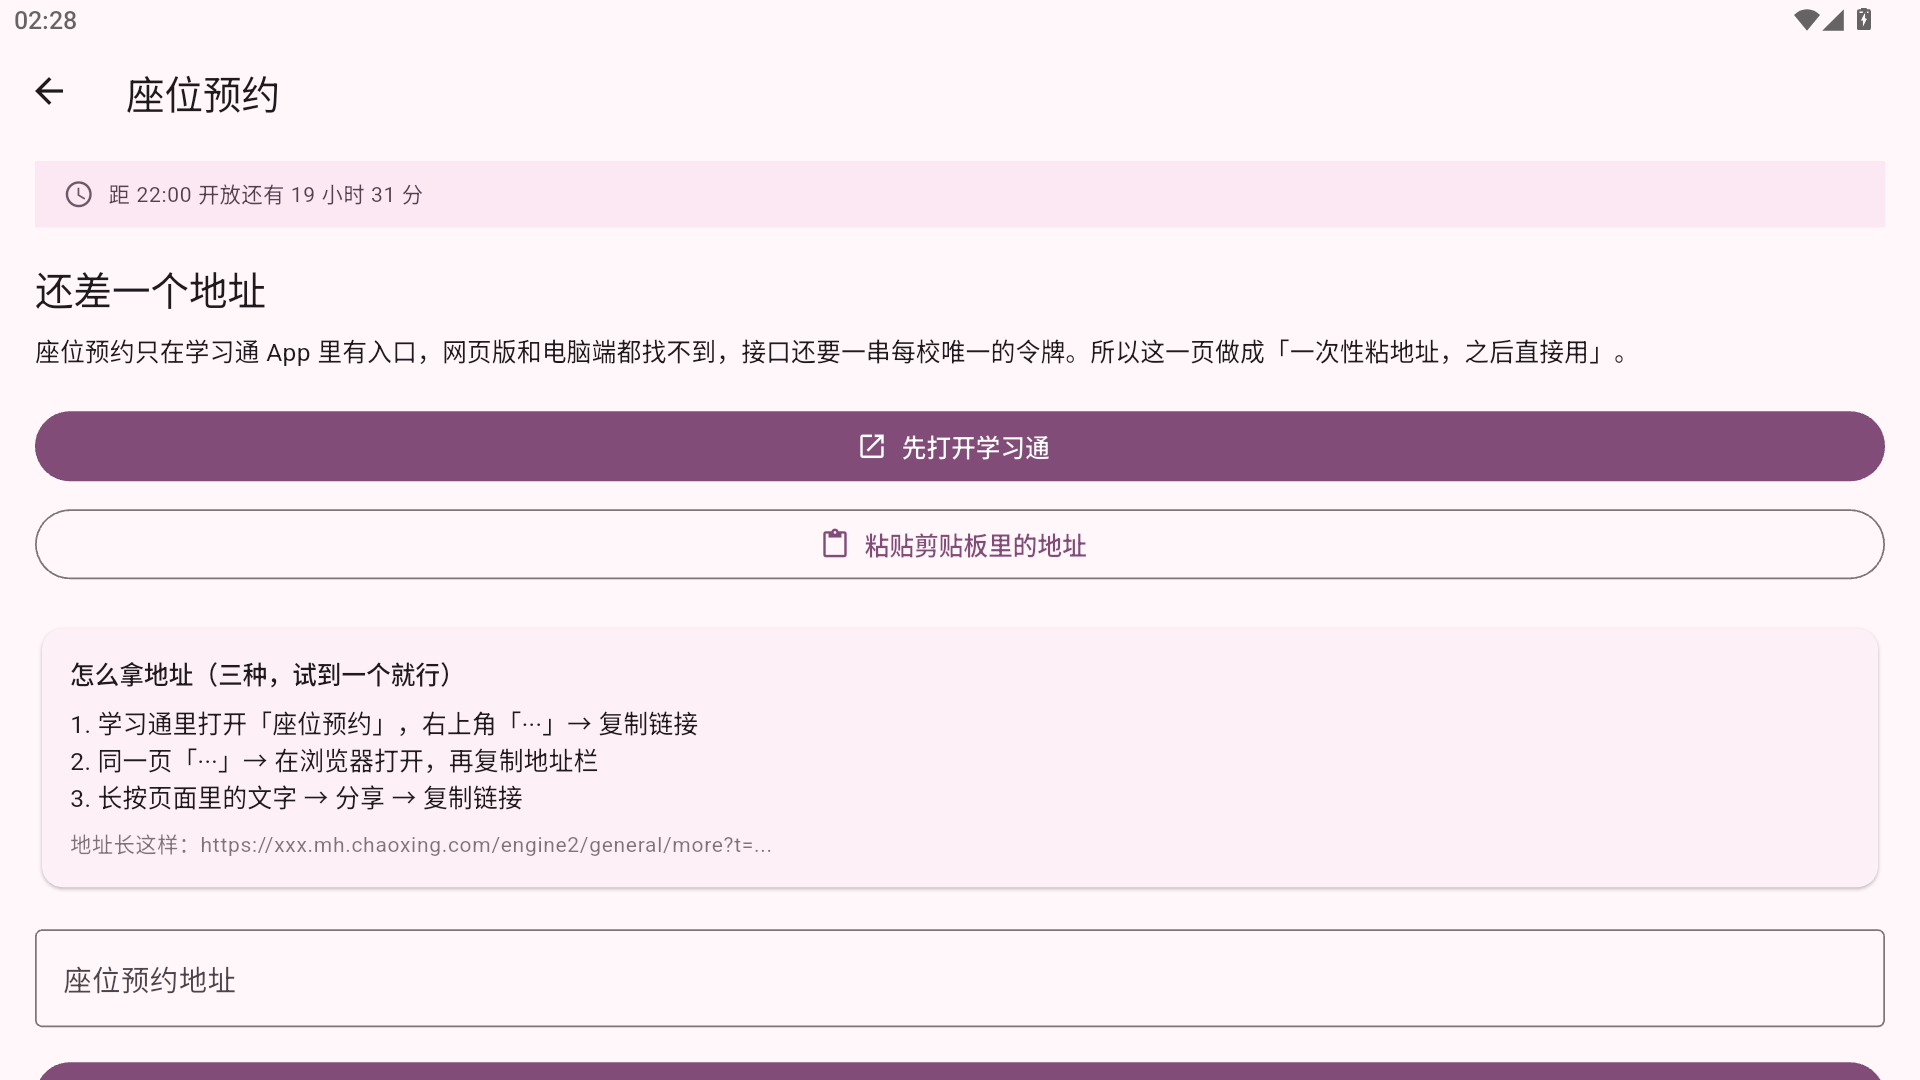
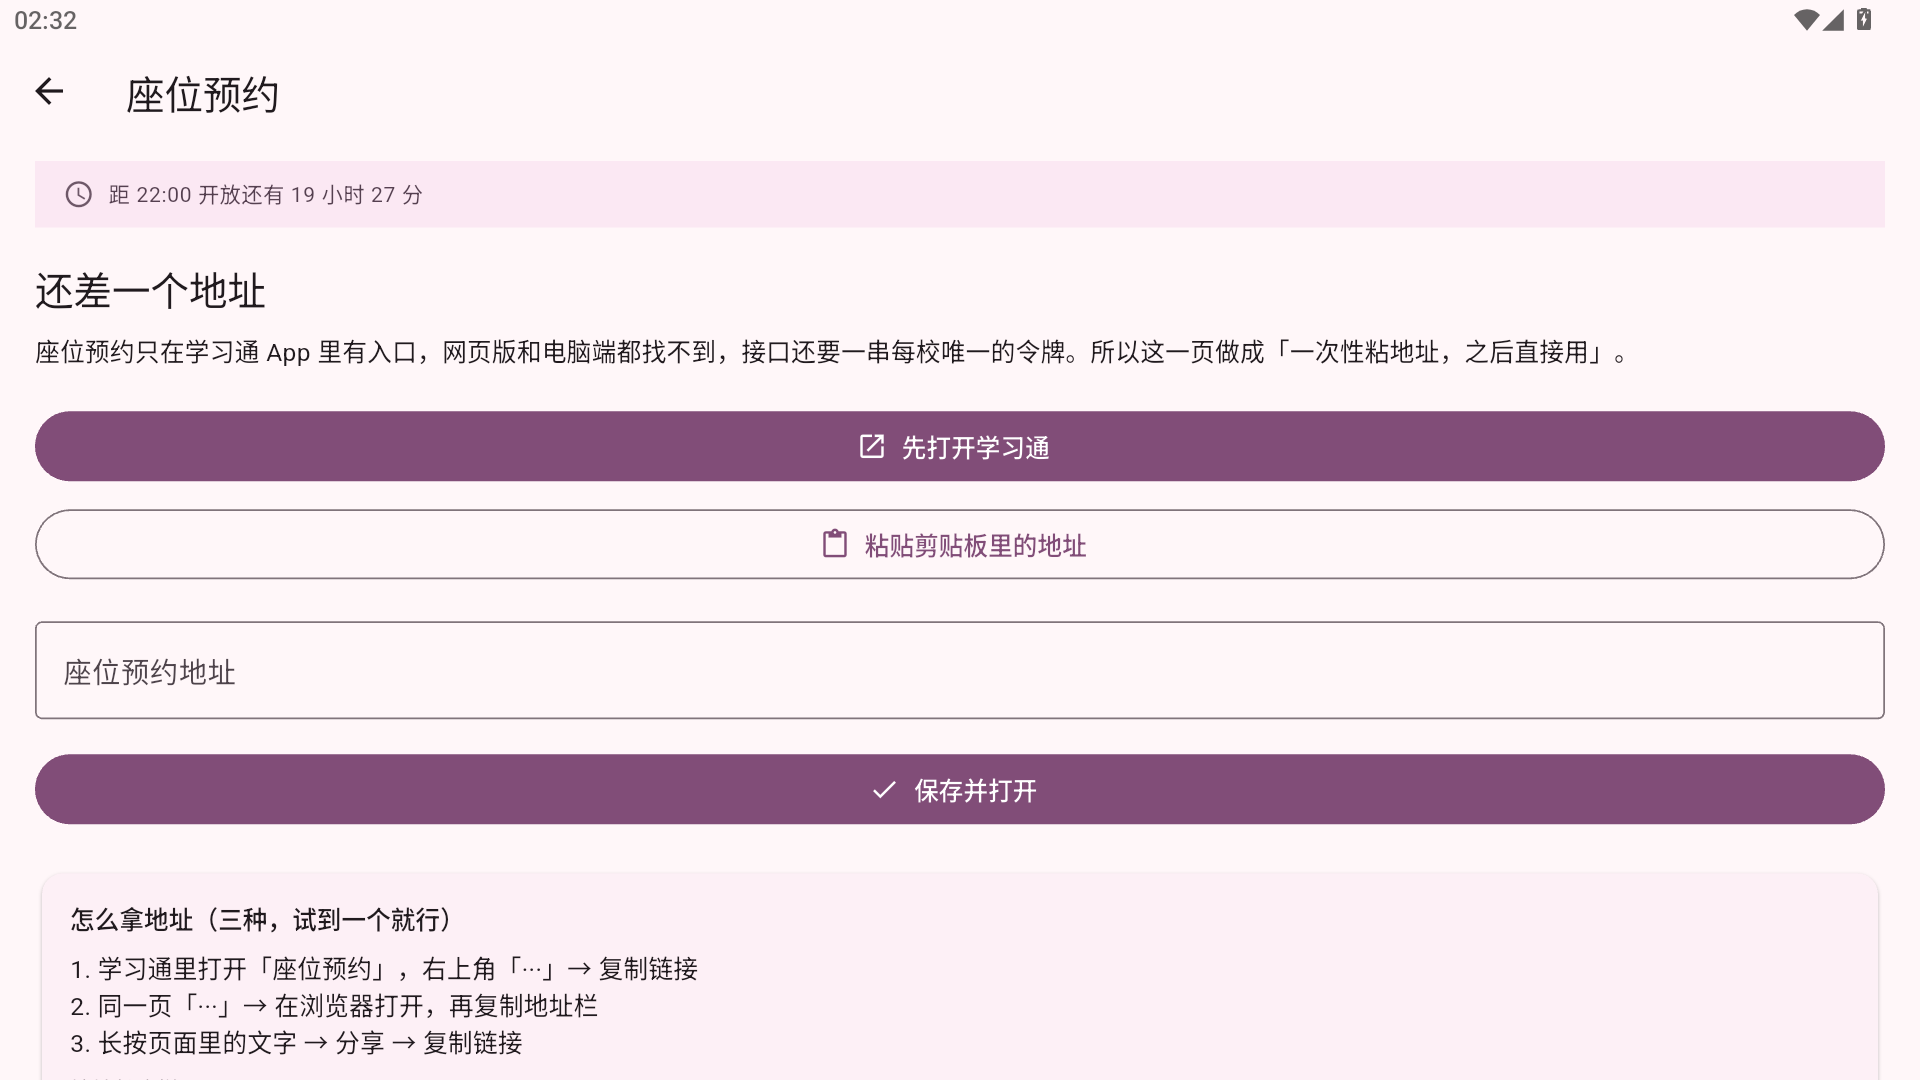
座位预约输入框上移、学习通账号提示改成手机号/学号

Changed region(s): [[0.0, 0.6111, 1.0, 0.7944], [0.0, 0.825, 1.0, 1.0], [0.3125, 0.8861, 0.375, 0.9167]]

diff --git a/lib/features/chaoxing/seat_page.dart b/lib/features/chaoxing/seat_page.dart
@@ -338,6 +338,24 @@ class _SetupBodyState extends State<_SetupBody> {
           label: const Text('粘贴剪贴板里的地址'),
         ),
         const SizedBox(height: 20),
+        TextField(
+          controller: _controller,
+          minLines: 1,
+          maxLines: 4,
+          keyboardType: TextInputType.url,
+          decoration: const InputDecoration(
+            labelText: '座位预约地址',
+            hintText: 'https://…',
+            border: OutlineInputBorder(),
+          ),
+        ),
+        const SizedBox(height: 16),
+        FilledButton.icon(
+          onPressed: _busy ? null : _submit,
+          icon: const Icon(Icons.check),
+          label: const Text('保存并打开'),
+        ),
+        const SizedBox(height: 20),
         Card(
           child: Padding(
             padding: const EdgeInsets.all(16),
@@ -360,24 +378,6 @@ class _SetupBodyState extends State<_SetupBody> {
               ],
             ),
           ),
-        ),
-        const SizedBox(height: 20),
-        TextField(
-          controller: _controller,
-          minLines: 1,
-          maxLines: 4,
-          keyboardType: TextInputType.url,
-          decoration: const InputDecoration(
-            labelText: '座位预约地址',
-            hintText: 'https://…',
-            border: OutlineInputBorder(),
-          ),
-        ),
-        const SizedBox(height: 16),
-        FilledButton.icon(
-          onPressed: _busy ? null : _submit,
-          icon: const Icon(Icons.check),
-          label: const Text('保存并打开'),
         ),
         const SizedBox(height: 24),
         Text(

diff --git a/lib/features/chaoxing/homework_page.dart b/lib/features/chaoxing/homework_page.dart
@@ -355,7 +355,8 @@ class _LoginForm extends StatelessWidget {
           controller: phone,
           keyboardType: TextInputType.phone,
           decoration: const InputDecoration(
-            labelText: '手机号',
+            labelText: '手机号 / 学号',
+            helperText: '学习通用注册时的手机号登录，不是教务学号',
             border: OutlineInputBorder(),
           ),
         ),
